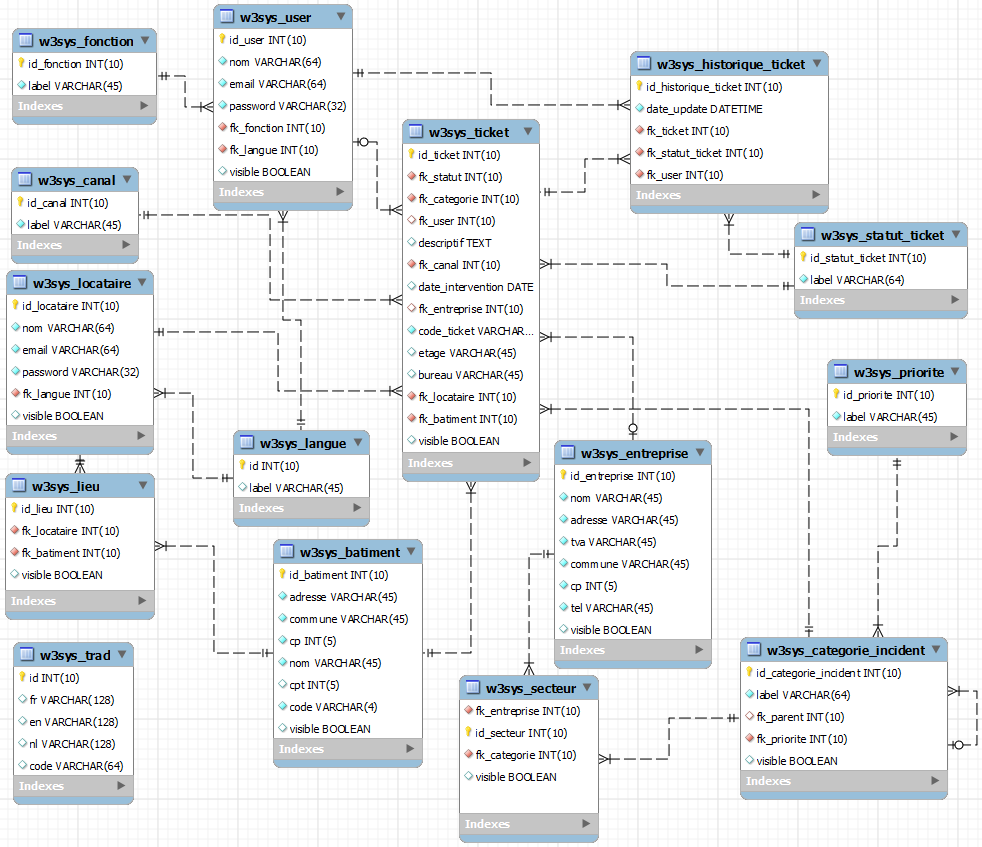
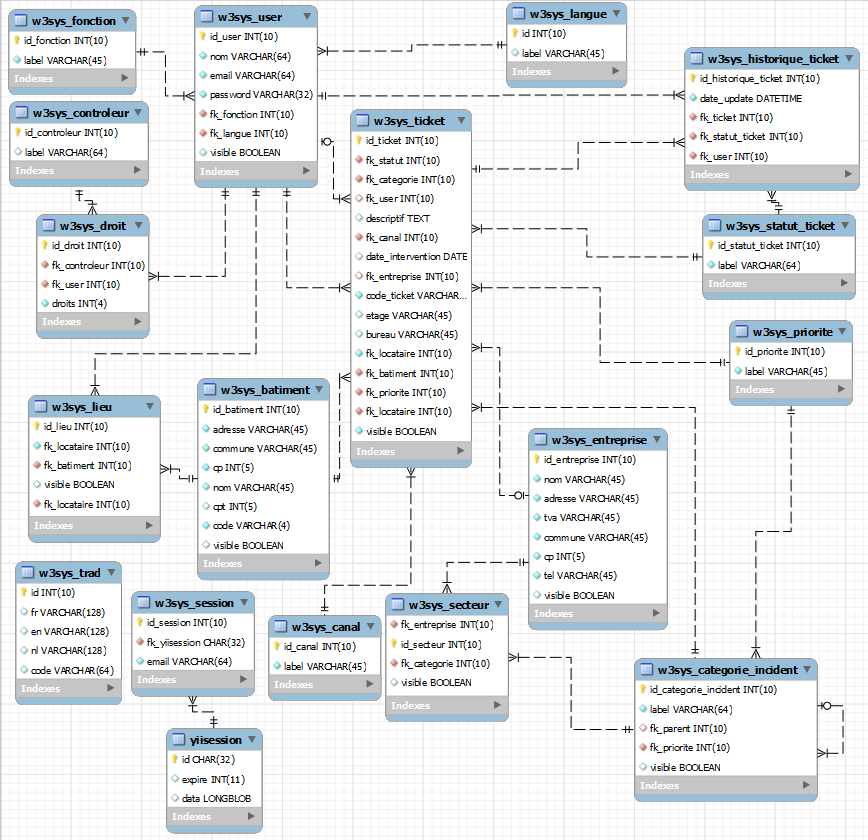
push DB datas and structure

diff --git a/protected/controllers/UserController.php b/protected/controllers/UserController.php
@@ -10,6 +10,7 @@ class UserController extends Controller
     const ACTION_UPDATE = 8;
     const ACTION_ADMIN = 16;
     const ACTION_CHANGEPASSWORD = 32;
+    const ACTION_ACCORDER_DROIT = 64;
 
     /**
      * @var string the default layout for the views. Defaults to '//layouts/column2', meaning
@@ -63,6 +64,7 @@ class UserController extends Controller
             if ($rights & self::ACTION_UPDATE) array_push($allow, 'update');
             if ($rights & self::ACTION_ADMIN) array_push($allow, 'admin');
             if ($rights & self::ACTION_CHANGEPASSWORD) array_push($allow, 'changepassword');
+            // if ($rights & self::ACTION_ACCORDER_DROIT) array_push($allow, 'accorderdroit');
 
             return array( // Ici on a plus qu'à envoyer la liste des droits
                 array('allow', // Ici l'array des droits 'permis'
@@ -88,6 +90,23 @@ class UserController extends Controller
         }
     }
 
+    /*
+     * Cette action nous permet d'attribuer des droits aux utilisateurs.
+     * Sur la vue associée, on tombe sur un tableau permettant de choisir quels
+     * droits donner à l'utilisateur selectionné.
+     */
+    public function actionAccorderDroit($id){
+        $model = $this->loadModel($id);
+        
+        if (isset($_POST['Admin'])) {
+            
+            
+            $this->redirect(array('view', 'id' => $model->id_user));
+        }
+        
+        $this->render('accorderDroit', array('model' => $model));
+    }
+    
     /**
      * Displays a particular model.
      * @param integer $id the ID of the model to be displayed
@@ -98,6 +117,9 @@ class UserController extends Controller
             'model' => $this->loadModel($id),
         ));
     }
+    
+    
+    
 
     /**
      * Creates a new model.
